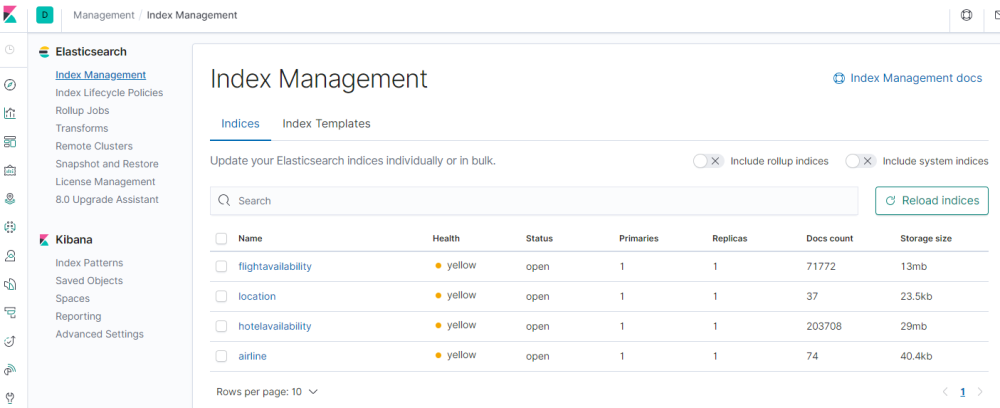
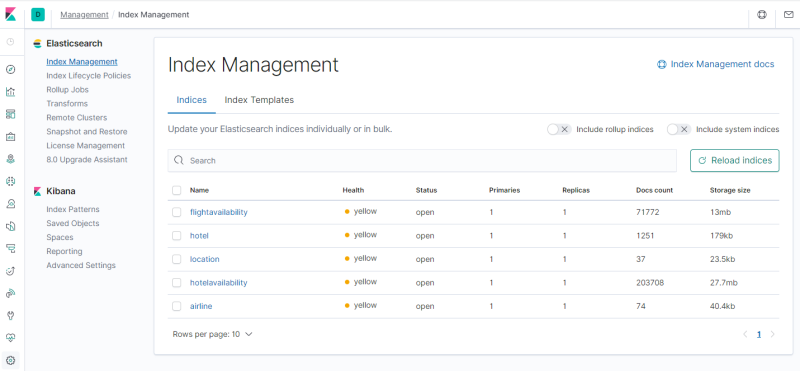
Update README

diff --git a/README.md b/README.md
@@ -1,11 +1,12 @@
 # FlightBooking.Search
 ASP.NET core solution to search Flight and Hotel availability in a locally hosted Elasticsearch NoSQL database.
 
-There are four indexes in the Elasticsearch database:
+There are five indexes in the Elasticsearch database:
   1. flightavailability  
-  2. hotelavailability
+  2. hotel
   3. location
-  4. airline
+  4. hotelavailability  
+  5. airline
   
   
   ![](_MISC/Images/kibanaindexes.PNG)
